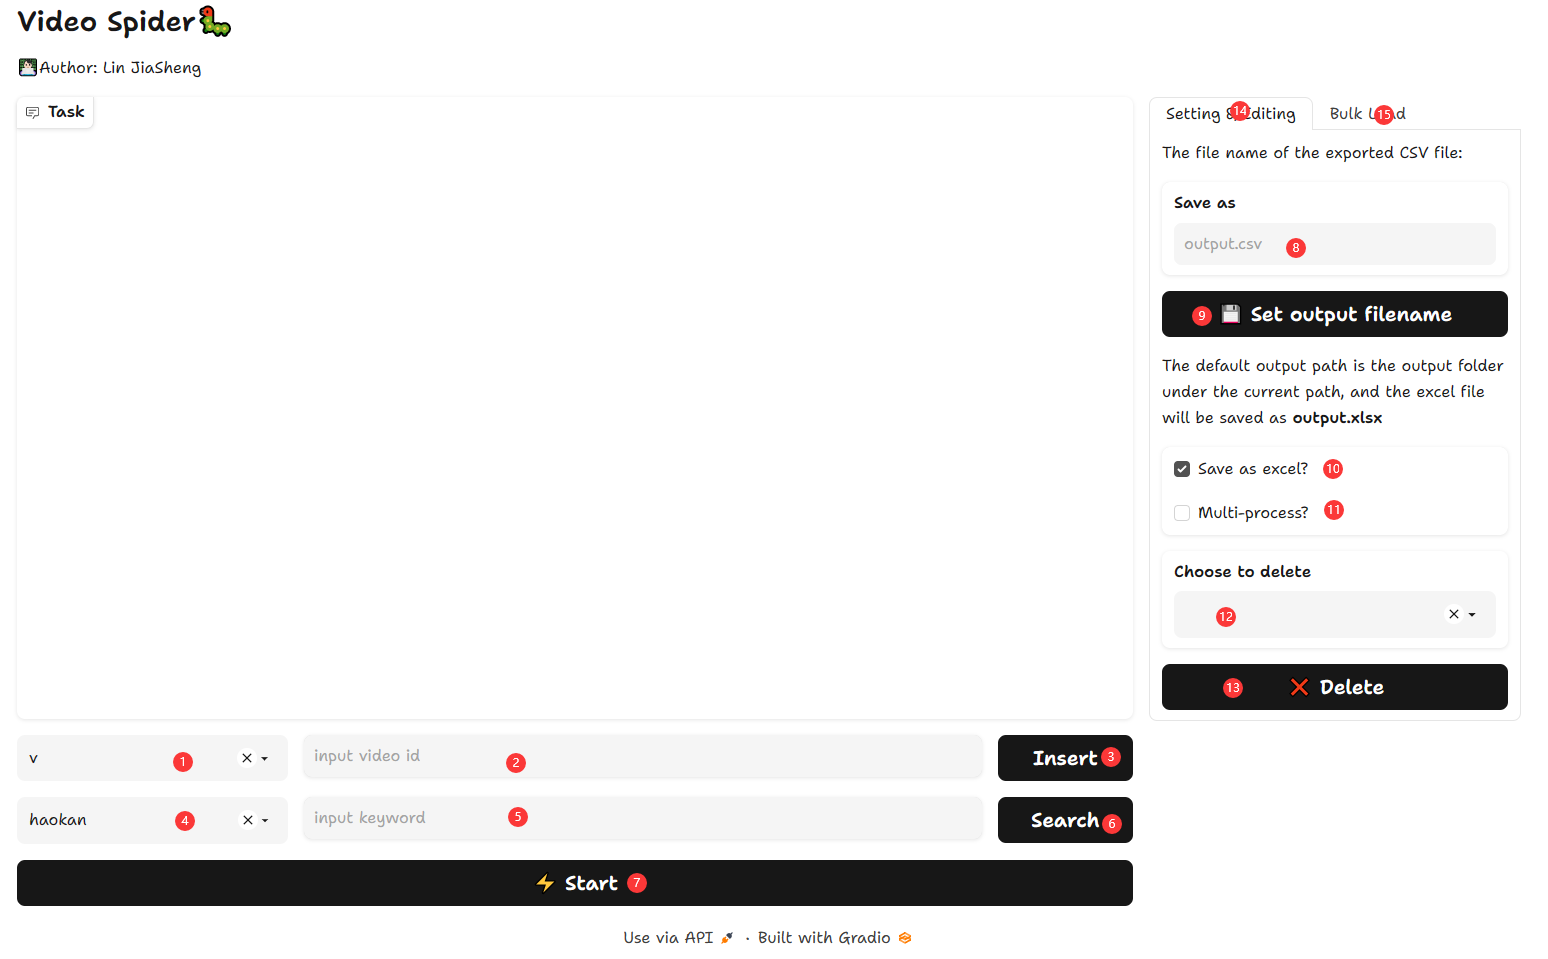
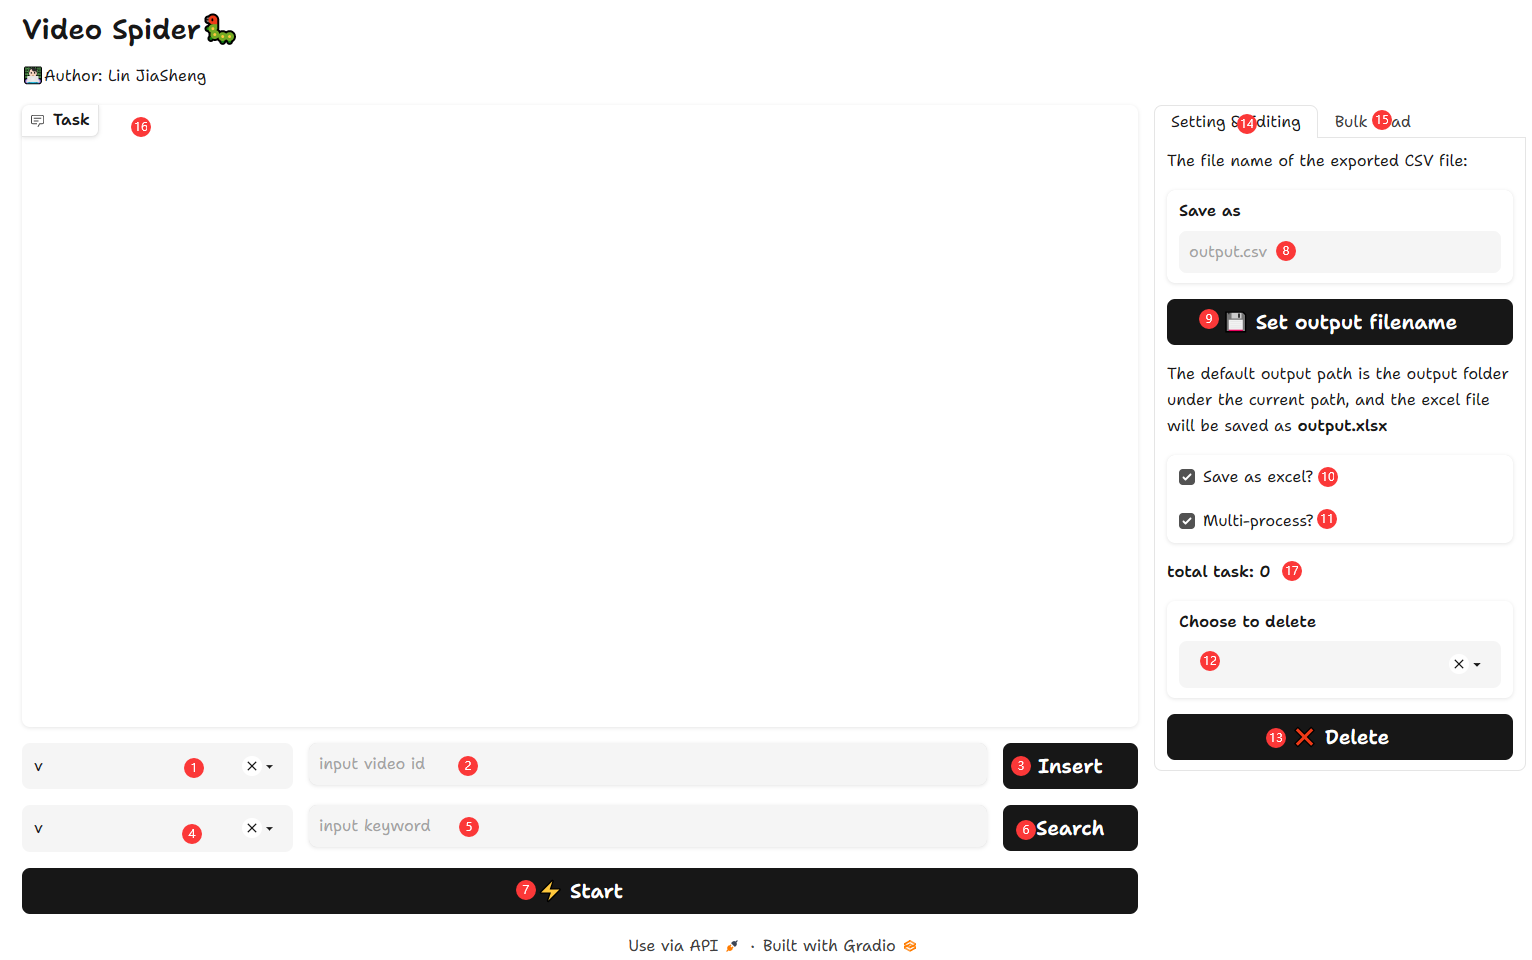
Update README and Picture of GUI

diff --git a/README.md b/README.md
@@ -142,9 +142,10 @@ tqdm==4.65.0
   | 8，9    | 设置输出的csv文件的文件名，8处填新的文件名，点击 9 设置      |
   | 10      | 选择是否同时输出xlsx文件                                     |
   | 11      | 用来选择是否以多进程模式进行爬取                             |
-  | 12，13  | 用于移除带爬取记录中的记录，11 选择，点击12 即可删除11中选中的记录 |
-  | 13及14  | Tab切换，13用于进行各类设置和编辑，14用于批量导入带爬取记录  |
-  | 15      | 用于显示带爬取记录                                           |
+  | 12，13  | 用于移除带爬取记录中的记录，12 选择，点击13 即可删除12中选中的记录 |
+  | 14及15  | Tab切换，14用于进行各类设置和编辑，15用于批量导入带爬取记录  |
+  | 16      | 用于显示带爬取记录                                           |
+  | 17      | 用于显示当前已选中的任务数                                   |
 
 
 
